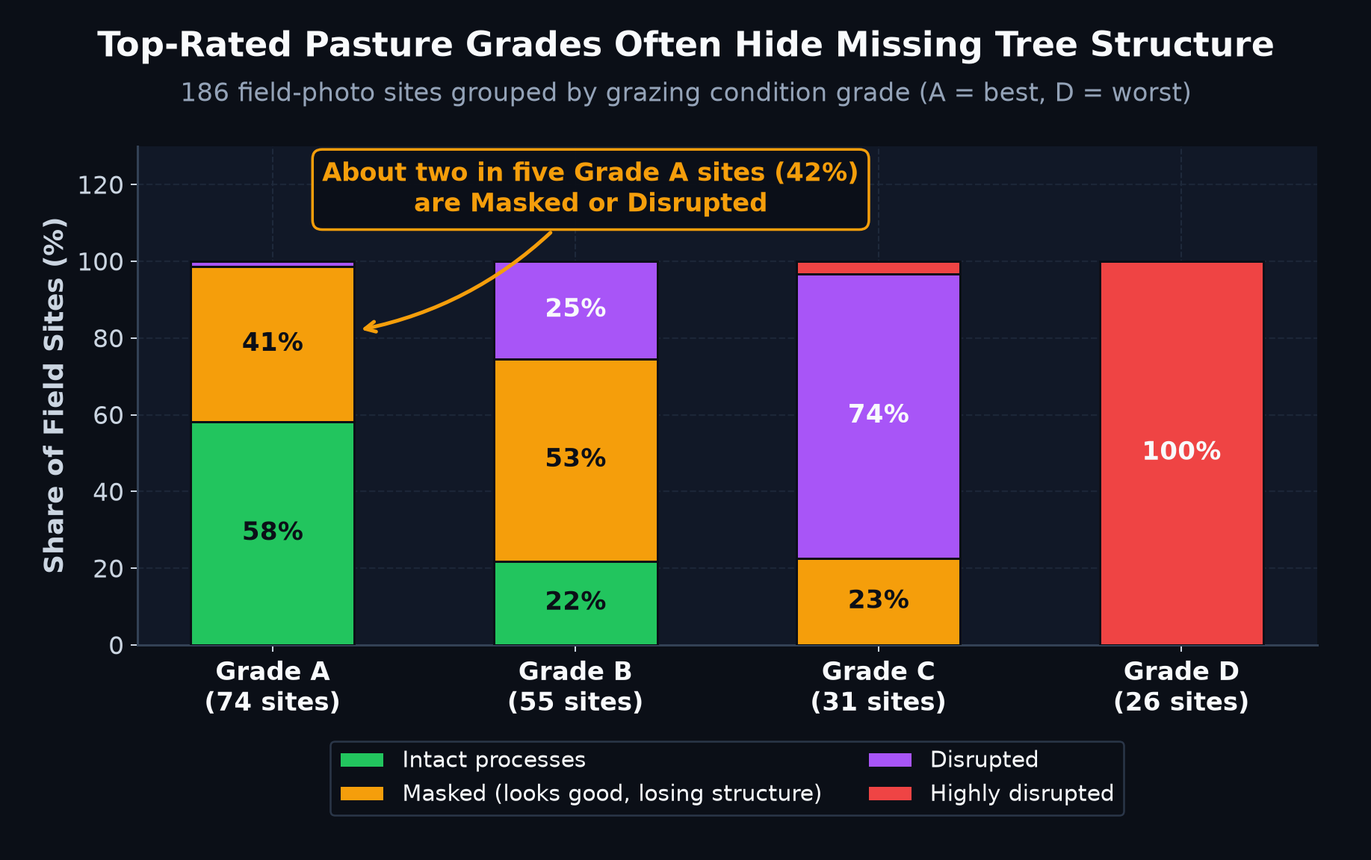
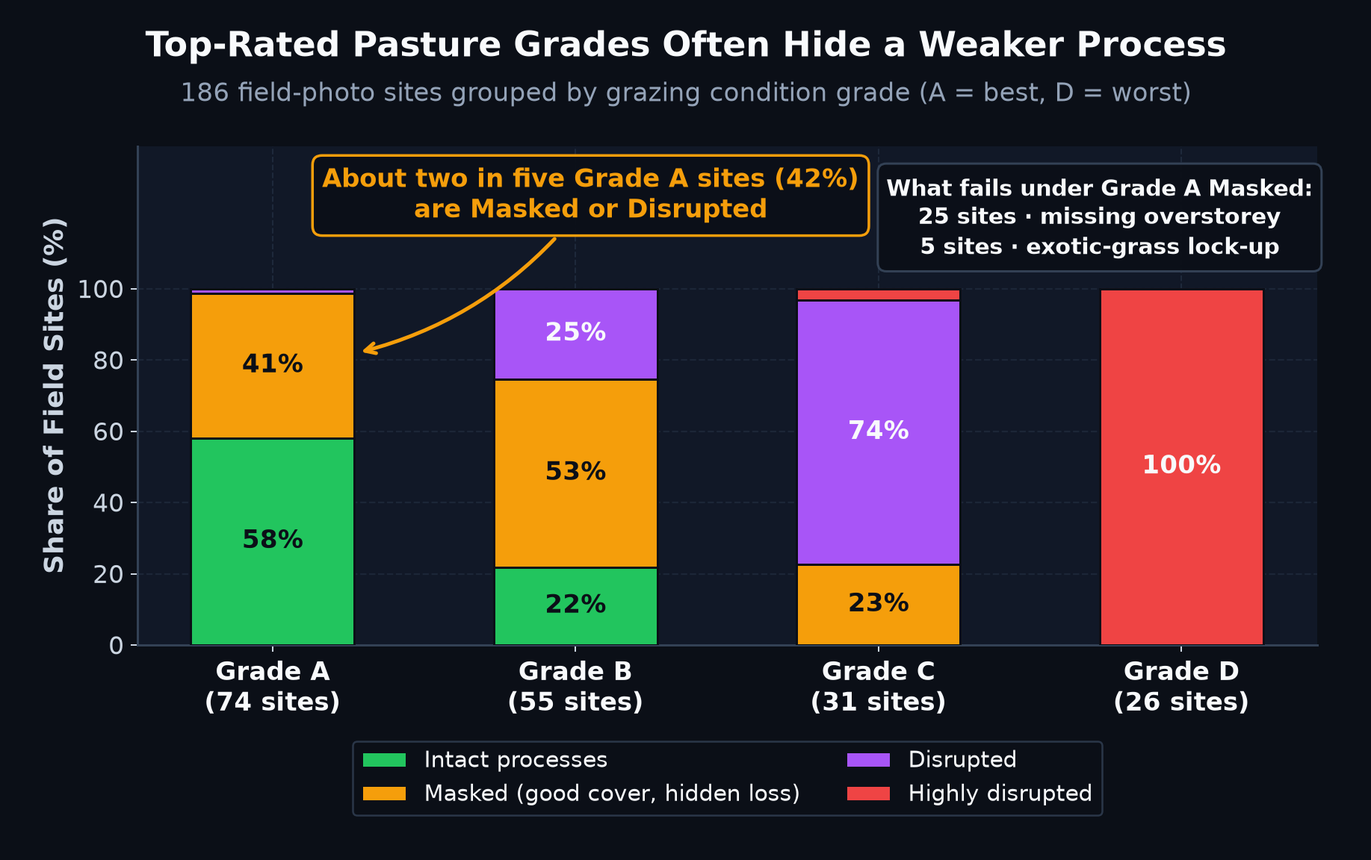
Broaden Masked regime beyond tree loss: Site 60 buffel example, reworded Slides 13/14/16 and close, chart split 25/5

diff --git a/index.html b/index.html
@@ -1690,7 +1690,7 @@
     </section>
     
 
-    <section class="slide layout-standard" data-index="15" data-id="13" data-section="main" data-act="Act 4 · Early research" data-time="16:45–18:10" data-title="The same ground through two views">
+    <section class="slide layout-standard" data-index="15" data-id="13" data-section="main" data-act="Act 4 · Early research" data-time="16:45–18:15" data-title="The same ground through two views">
       
         <header class="s-head">
           <div class="s-title-wrap">
@@ -1703,23 +1703,23 @@
       <div class="s-body">
         <div class="tab-bar" id="regime-tabs" role="tablist" aria-label="Landscape process regimes">
           <button class="tab-btn active" data-idx="0">1 · Intact processes</button>
-          <button class="tab-btn" data-idx="1">2 · Masked (looks good, losing structure)</button>
+          <button class="tab-btn" data-idx="1">2 · Masked (good cover, hidden loss)</button>
           <button class="tab-btn" data-idx="2">3 · Disrupted</button>
           <button class="tab-btn" data-idx="3">4 · Highly disrupted</button>
         </div>
         <div class="regime-stage" id="regime-stage"></div>
       </div>
       <div class="s-num">13</div>
-      <aside class="notes">When we run that two-step Gemini prompt across 186 field sites, four physical regimes emerge. Let me show two of them live. Regime 1, Intact processes: Site 185 near Weribone is grassy box woodland — tall trees and a full perennial grass layer — so canopies filter the rain while grass roots knit the soil, for a Process Stress of just 1.3 out of 10. [Press 2] Regime 2, Masked: Site 176 near Oberina and Site 61 look green and grassy, so checklists rate them well, yet the process view flags missing overstorey trees and baking air above the grass — Process Stress around 4. The other two tabs, Disrupted and Highly disrupted, show glazed clay pans shedding runoff and hard-set, crusting surfaces above 8 out of 10 — yet even there, fallen branches act as tiny soil-catching micro-sinks.</aside>
+      <aside class="notes">When we run that two-step Gemini prompt across 186 field sites, four physical regimes emerge. Let me show two of them live. Regime 1, Intact processes: Site 185 near Weribone is grassy box woodland — tall trees and a full perennial grass layer — so canopies filter the rain while grass roots knit the soil, for a Process Stress of just 1.3 out of 10. [Press 2] Regime 2, Masked: good ground cover earns both sites Grade A, yet something else is quietly failing. Site 176 near Oberina has lost its brigalow overstorey. Site 60 near Dirranbandi still has its trees, but unburnt buffel grass has locked up the ground layer — Process Stress around 3 to 4. The other two tabs, Disrupted and Highly disrupted, show glazed clay pans shedding runoff and hard-set, crusting surfaces above 8 out of 10 — yet even there, fallen branches act as tiny soil-catching micro-sinks.</aside>
     </section>
     
 
-    <section class="slide layout-standard" data-index="16" data-id="14" data-section="main" data-act="Act 4 · Early research" data-time="18:10–19:20" data-title="Some top-rated pasture is quietly losing its trees">
+    <section class="slide layout-standard" data-index="16" data-id="14" data-section="main" data-act="Act 4 · Early research" data-time="18:15–19:35" data-title="Some top-rated pasture is quietly losing a process">
       
         <header class="s-head">
           <div class="s-title-wrap">
             <div class="s-kicker">Early research · built on the condition model</div>
-            <h2 class="s-title">Some top-rated pasture is quietly losing its trees</h2>
+            <h2 class="s-title">Some top-rated pasture is quietly losing a process</h2>
             
           </div>
         </header>
@@ -1731,16 +1731,16 @@
             <div class="photo-cap"><strong>Site 176 · Oberina — thick grass, missing trees</strong><span>Rated <strong>Grade A</strong> pasture — yet the brigalow woodland now survives only as a wall of trees on the horizon.</span></div>
           </div>
           <div class="fig-box">
-            <img src="assets/chart_checklist_paradox.png" alt="Stacked bar chart of 186 field-photo sites showing about two in five Grade A pasture sites are Masked or Disrupted underneath" data-zoom="About two in five Grade A pasture sites hide missing tree structure">
+            <img src="assets/chart_checklist_paradox.png" alt="Stacked bar chart of 186 field-photo sites showing about two in five Grade A pasture sites are Masked or Disrupted underneath; of the Grade A Masked sites, 25 are missing overstorey and 5 have exotic-grass lock-up" data-zoom="About two in five Grade A pasture sites hide a weaker process underneath">
           </div>
         </div>
       </div>
       <div class="s-num">14</div>
-      <aside class="notes">Now put those four process regimes directly alongside standard grazing grades across all 186 field-photo sites, and a striking pattern jumps out. Look back at Site 176 near Oberina on the left. Thick grass covers the ground, so a pastoral checklist gives it top marks — Grade A. Yet look at the horizon: that wall of brigalow is what the whole paddock used to be. The trees that shelter the soil, cool the air, and anchor deep moisture are gone. Across the 186 sites on the right, about two in five Grade A pasture sites — forty-two percent — turn out to be Masked or Disrupted underneath. And it held up on the fifty sites we added in the latest run: eleven of the twenty-one new Grade A sites. That is the exact blind spot a process view begins to uncover.</aside>
+      <aside class="notes">Now put those four process regimes directly alongside standard grazing grades across all 186 field-photo sites, and a striking pattern jumps out. Look back at Site 176 near Oberina on the left. Thick grass covers the ground, so a pastoral checklist gives it top marks — Grade A. Yet look at the horizon: that wall of brigalow is what the whole paddock used to be. The trees that shelter the soil, cool the air, and anchor deep moisture are gone. Across the 186 sites on the right, about two in five Grade A pasture sites — forty-two percent — turn out to be Masked or Disrupted underneath. Most have lost their trees, like this one; about one in six still has them, with buffel locking up the ground layer. And it held up on the fifty sites we added in the latest run: eleven of the twenty-one new Grade A sites. That is the exact blind spot a process view begins to uncover.</aside>
     </section>
     
 
-    <section class="slide layout-standard" data-index="17" data-id="15" data-section="main" data-act="Act 4 · Early research" data-time="19:20–20:50" data-title="How we check the process view">
+    <section class="slide layout-standard" data-index="17" data-id="15" data-section="main" data-act="Act 4 · Early research" data-time="19:35–21:05" data-title="How we check the process view">
       
         <header class="s-head">
           <div class="s-title-wrap">
@@ -1769,7 +1769,7 @@
     </section>
     
 
-    <section class="slide layout-standard" data-index="18" data-id="16" data-section="main" data-act="Act 4 · Early research" data-time="20:50–21:55" data-title="Mapping Process Stress across 655,000 km²">
+    <section class="slide layout-standard" data-index="18" data-id="16" data-section="main" data-act="Act 4 · Early research" data-time="21:05–22:15" data-title="Mapping Process Stress across 655,000 km²">
       
         <header class="s-head">
           <div class="s-title-wrap">
@@ -1786,17 +1786,17 @@
           </div>
           <div class="strip-3">
             <div class="mini-card"><strong class="emerald">Just over half (54%) Intact</strong><span>Mostly far-west channel and dune country, woody ranges and intact mulga.</span></div>
-            <div class="mini-card"><strong class="amber">About a third (32%) Masked</strong><span>Cleared grazing country where good grass cover hides missing overstorey structure.</span></div>
+            <div class="mini-card"><strong class="amber">About a third (32%) Masked</strong><span>Good ground cover hiding a weaker process — mostly missing overstorey, also exotic-grass lock-up.</span></div>
             <div class="mini-card"><strong class="violet">One in seven (14%) Disrupted</strong><span>Priority zones for on-ground checking. Every pixel carries a calibrated 90% interval (±1.8).</span></div>
           </div>
         </div>
       </div>
       <div class="s-num">16</div>
-      <aside class="notes">When we project that early satellite probe across the roughly six hundred and fifty-five thousand square kilometre Mitchell corridor, a striking spatial pattern emerges. On the left is continuous Process Stress, with our 186 field-photo sites as white dots; on the right, the dominant landscape regime. Just over half maps as Intact processes, in the far-west channel country, the woody ranges and intact mulga. About a third maps as Masked — open grazing country where good ground cover hides simplified tree structure. And about one in seven flags as Disrupted or Highly disrupted. Every pixel now carries a calibrated ninety-percent uncertainty band, and that matters: between model versions the Intact share moved by more than ten points. Treat this as an early research map: it tells field teams where to drive next, not a finished regulatory scorecard.</aside>
+      <aside class="notes">When we project that early satellite probe across the roughly six hundred and fifty-five thousand square kilometre Mitchell corridor, a striking spatial pattern emerges. On the left is continuous Process Stress, with our 186 field-photo sites as white dots; on the right, the dominant landscape regime. Just over half maps as Intact processes, in the far-west channel country, the woody ranges and intact mulga. About a third maps as Masked — good ground cover hiding a weaker process, mostly missing overstorey trees, in places exotic grass locking up the ground layer. And about one in seven flags as Disrupted or Highly disrupted. Every pixel now carries a calibrated ninety-percent uncertainty band, and that matters: between model versions the Intact share moved by more than ten points. Treat this as an early research map: it tells field teams where to drive next, not a finished regulatory scorecard.</aside>
     </section>
     
 
-    <section class="slide layout-standard" data-index="19" data-id="17" data-section="main" data-act="Close" data-time="21:55–23:15" data-title="From static ledgers to living processes — what this unlocks">
+    <section class="slide layout-standard" data-index="19" data-id="17" data-section="main" data-act="Close" data-time="22:15–23:35" data-title="From static ledgers to living processes — what this unlocks">
       
         <header class="s-head">
           <div class="s-title-wrap">
@@ -1838,7 +1838,7 @@
               <span class="tk-tag">Google Hypothesis Generation · Process View</span>
             </div>
             <h3>AI-assisted ideation &amp; living processes</h3>
-            <p>Shaped with <strong>Google Hypothesis Generation</strong> (1,985 papers), the verb-based process view finds <strong>about two in five</strong> of Grade A pastures hiding missing tree structure.</p>
+            <p>Shaped with <strong>Google Hypothesis Generation</strong> (1,985 papers), the verb-based process view finds <strong>about two in five</strong> of Grade A pastures hiding a weaker process underneath.</p>
           </div>
         </div>
         <div class="collab-band">
@@ -1867,7 +1867,7 @@
         </div>
       </div>
       <div class="s-num">17</div>
-      <aside class="notes">I will leave this up for questions. Four quick take-homes. First, AlphaEarth&#x27;s global embeddings let a small team train one compact multi-task model that maps 1.2 billion pixels of Australia in about forty minutes, nearly halving tree-cover error — and the same pattern travels anywhere in APAC. Second, grounded Gemini VLMs turn field photos into auditable scientific data, landing within one class of field ecologists ninety-eight percent of the time once calibrated. Third, domain discipline — separating ecology from pasture and scoring the optimiser fairly — is what makes continental AI trustworthy. Fourth, an early process view, shaped with Google Hypothesis Generation, shows about two in five top-rated pastures quietly losing structure. Next, savanna field surveys across Northern Australia will test both models out of domain. None of this would have been practical without Google Antigravity for our agentic engineering and Google Colab for the GPU compute. Thank you — the slides and code are at the link on screen, and I would love your questions.</aside>
+      <aside class="notes">I will leave this up for questions. Four quick take-homes. First, AlphaEarth&#x27;s global embeddings let a small team train one compact multi-task model that maps 1.2 billion pixels of Australia in about forty minutes, nearly halving tree-cover error — and the same pattern travels anywhere in APAC. Second, grounded Gemini VLMs turn field photos into auditable scientific data, landing within one class of field ecologists ninety-eight percent of the time once calibrated. Third, domain discipline — separating ecology from pasture and scoring the optimiser fairly — is what makes continental AI trustworthy. Fourth, an early process view, shaped with Google Hypothesis Generation, shows about two in five top-rated pastures quietly losing a key process underneath. Next, savanna field surveys across Northern Australia will test both models out of domain. None of this would have been practical without Google Antigravity for our agentic engineering and Google Colab for the GPU compute. Thank you — the slides and code are at the link on screen, and I would love your questions.</aside>
     </section>
     
 
@@ -2614,7 +2614,7 @@
       ]
     },
     {
-      name: 'Masked (looks good, losing structure)',
+      name: 'Masked (good cover, hidden loss)',
       color: 'amber',
       toneHex: '#F59E0B',
       pair: [
@@ -2630,15 +2630,15 @@
           losing: ['tree removal', 'baking', 'crusting']
         },
         {
-          id: 'Site 61 · Mulga & Box Slope',
-          sub: 'Open red-earth grazing paddock',
-          photo: 'assets/site_61.jpg',
-          stress: '4.0 / 10',
-          badge: 'Masked · Surface vs structure',
-          checklist: 'Solid ground cover and grazing score; simplified woody canopy',
-          process: 'Thick pasture slows runoff on the ground while tree cover stays sparse — showing why surface and tree structure must be separated.',
-          holding: ['root-knitting', 'percolating', 'cradling'],
-          losing: ['hard-setting (seams)', 'wind-winnowing', 'crusting']
+          id: 'Site 60 · Dirranbandi',
+          sub: 'Woodland with a buffel grass understorey',
+          photo: 'assets/site_60.jpg',
+          stress: '3.2 / 10',
+          badge: 'Masked · Grade A pasture',
+          checklist: 'Top pasture grade (Grade A); tree canopy intact; native plant mix scores 95% from above',
+          process: 'Trees still shade and cool the ground, but an unburnt buffel mat hogs the shallow rain and piles dry fuel against the trunks, leaving native grasses no room to renew.',
+          holding: ['arch-shading', 'canopy-filtering', 'root-knitting'],
+          losing: ['smothering', 'fuel build-up', 'crusting']
         }
       ]
     },

diff --git a/speaker_notes.md b/speaker_notes.md
@@ -4,7 +4,7 @@
 **Event:** GDG AI for Science Asia-Pacific DevFest, Sydney · 25 min + 5 min Q&A  
 **Shortcuts in Deck:** `←`/`→` navigate · `S` speaker notes · `R` Reader Mode · `G` slide grid · `A` Appendix · `1–4` regimes on Slide 13
 
-**Total script length:** 2,754 words (Main Talk) + 920 words (Appendix) = **3,674 words total**.
+**Total script length:** 2,801 words (Main Talk) + 920 words (Appendix) = **3,721 words total**.
 
 **Rehearsal checkpoints** (paced at ~128 wpm + slide changes; slower for the Acknowledgement):
 
@@ -14,8 +14,8 @@
 | Act 1 · The problem | 5:00 |
 | Act 2 · The condition model | 8:30 |
 | Act 3 · Three lessons & results | 14:25 |
-| Act 4 · Early research | 21:55 |
-| Close | 23:15 |
+| Act 4 · Early research | 22:15 |
+| Close | 23:35 |
 
 ---
 
@@ -97,29 +97,29 @@ Now I want to pivot — and be upfront that this final part of the talk is early
 Before building the verb-based experiment, we stress-tested that hunch with Google Hypothesis Generation. It read nearly two thousand arXiv and bioRxiv papers and compared ten candidate research designs against our criteria. It flagged two failure modes and one design principle. First, kinetic conflation: if you only ban nouns, a VLM scores gullying and scouring as healthy simply because they are active — so we split verbs into Holding versus Losing. Second, stripping landscape nouns can break arid-zone intuition, so every reading is anchored in local physical and climate context. And the design principle: keep rich verb prompting offline on field photos, then probe our shared AlphaEarth satellite trunk rather than guessing beneath tree canopies.
 
 ### 13 · The same ground through two views  
-*Act 4 · Early research · 16:45–18:10 · ~139 words*
+*Act 4 · Early research · 16:45–18:15 · ~152 words*
 
-When we run that two-step Gemini prompt across 186 field sites, four physical regimes emerge. Let me show two of them live. Regime 1, Intact processes: Site 185 near Weribone is grassy box woodland — tall trees and a full perennial grass layer — so canopies filter the rain while grass roots knit the soil, for a Process Stress of just 1.3 out of 10. [Press 2] Regime 2, Masked: Site 176 near Oberina and Site 61 look green and grassy, so checklists rate them well, yet the process view flags missing overstorey trees and baking air above the grass — Process Stress around 4. The other two tabs, Disrupted and Highly disrupted, show glazed clay pans shedding runoff and hard-set, crusting surfaces above 8 out of 10 — yet even there, fallen branches act as tiny soil-catching micro-sinks.
+When we run that two-step Gemini prompt across 186 field sites, four physical regimes emerge. Let me show two of them live. Regime 1, Intact processes: Site 185 near Weribone is grassy box woodland — tall trees and a full perennial grass layer — so canopies filter the rain while grass roots knit the soil, for a Process Stress of just 1.3 out of 10. [Press 2] Regime 2, Masked: good ground cover earns both sites Grade A, yet something else is quietly failing. Site 176 near Oberina has lost its brigalow overstorey. Site 60 near Dirranbandi still has its trees, but unburnt buffel grass has locked up the ground layer — Process Stress around 3 to 4. The other two tabs, Disrupted and Highly disrupted, show glazed clay pans shedding runoff and hard-set, crusting surfaces above 8 out of 10 — yet even there, fallen branches act as tiny soil-catching micro-sinks.
 
-### 14 · Some top-rated pasture is quietly losing its trees  
-*Act 4 · Early research · 18:10–19:20 · ~141 words*
+### 14 · Some top-rated pasture is quietly losing a process  
+*Act 4 · Early research · 18:15–19:35 · ~163 words*
 
-Now put those four process regimes directly alongside standard grazing grades across all 186 field-photo sites, and a striking pattern jumps out. Look back at Site 176 near Oberina on the left. Thick grass covers the ground, so a pastoral checklist gives it top marks — Grade A. Yet look at the horizon: that wall of brigalow is what the whole paddock used to be. The trees that shelter the soil, cool the air, and anchor deep moisture are gone. Across the 186 sites on the right, about two in five Grade A pasture sites — forty-two percent — turn out to be Masked or Disrupted underneath. And it held up on the fifty sites we added in the latest run: eleven of the twenty-one new Grade A sites. That is the exact blind spot a process view begins to uncover.
+Now put those four process regimes directly alongside standard grazing grades across all 186 field-photo sites, and a striking pattern jumps out. Look back at Site 176 near Oberina on the left. Thick grass covers the ground, so a pastoral checklist gives it top marks — Grade A. Yet look at the horizon: that wall of brigalow is what the whole paddock used to be. The trees that shelter the soil, cool the air, and anchor deep moisture are gone. Across the 186 sites on the right, about two in five Grade A pasture sites — forty-two percent — turn out to be Masked or Disrupted underneath. Most have lost their trees, like this one; about one in six still has them, with buffel locking up the ground layer. And it held up on the fifty sites we added in the latest run: eleven of the twenty-one new Grade A sites. That is the exact blind spot a process view begins to uncover.
 
 ### 15 · How we check the process view  
-*Act 4 · Early research · 19:20–20:50 · ~181 words*
+*Act 4 · Early research · 19:35–21:05 · ~181 words*
 
 Can satellites actually see this, and how honest is the check? We trained a lightweight probe on the shared internal features of the same condition model — deliberately withholding the six condition maps so it could not take shortcuts — to predict the photo-based Process Stress at 186 sites. Tested on nine held-out regions, agreement is moderate: a concordance of about 0.5 — 0.49 raw, 0.53 after a simple spread calibration — and an AUC of 0.67 to 0.75 for flagging Masked and Highly disrupted sites, where 0.5 is chance. It is strong on the eastern escarpment and close to zero in the far-west Channel Country — remember the Windorah dune? When the far west is held out, the probe reads it as stressed. One honest ML footnote: on our original 136 sites the new backbone alone did no better — the gain came from fifty more field sites. On the right, every reading is anchored to four physical planes — soil, surface water, tree canopy and fire — with guardrails that stop the model inventing cultural, ceremonial or ownership claims.
 
 ### 16 · Mapping Process Stress across 655,000 km²  
-*Act 4 · Early research · 20:50–21:55 · ~137 words*
+*Act 4 · Early research · 21:05–22:15 · ~146 words*
 
-When we project that early satellite probe across the roughly six hundred and fifty-five thousand square kilometre Mitchell corridor, a striking spatial pattern emerges. On the left is continuous Process Stress, with our 186 field-photo sites as white dots; on the right, the dominant landscape regime. Just over half maps as Intact processes, in the far-west channel country, the woody ranges and intact mulga. About a third maps as Masked — open grazing country where good ground cover hides simplified tree structure. And about one in seven flags as Disrupted or Highly disrupted. Every pixel now carries a calibrated ninety-percent uncertainty band, and that matters: between model versions the Intact share moved by more than ten points. Treat this as an early research map: it tells field teams where to drive next, not a finished regulatory scorecard.
+When we project that early satellite probe across the roughly six hundred and fifty-five thousand square kilometre Mitchell corridor, a striking spatial pattern emerges. On the left is continuous Process Stress, with our 186 field-photo sites as white dots; on the right, the dominant landscape regime. Just over half maps as Intact processes, in the far-west channel country, the woody ranges and intact mulga. About a third maps as Masked — good ground cover hiding a weaker process, mostly missing overstorey trees, in places exotic grass locking up the ground layer. And about one in seven flags as Disrupted or Highly disrupted. Every pixel now carries a calibrated ninety-percent uncertainty band, and that matters: between model versions the Intact share moved by more than ten points. Treat this as an early research map: it tells field teams where to drive next, not a finished regulatory scorecard.
 
 ### 17 · From static ledgers to living processes — what this unlocks  
-*Close · 21:55–23:15 · ~166 words*
+*Close · 22:15–23:35 · ~169 words*
 
-I will leave this up for questions. Four quick take-homes. First, AlphaEarth's global embeddings let a small team train one compact multi-task model that maps 1.2 billion pixels of Australia in about forty minutes, nearly halving tree-cover error — and the same pattern travels anywhere in APAC. Second, grounded Gemini VLMs turn field photos into auditable scientific data, landing within one class of field ecologists ninety-eight percent of the time once calibrated. Third, domain discipline — separating ecology from pasture and scoring the optimiser fairly — is what makes continental AI trustworthy. Fourth, an early process view, shaped with Google Hypothesis Generation, shows about two in five top-rated pastures quietly losing structure. Next, savanna field surveys across Northern Australia will test both models out of domain. None of this would have been practical without Google Antigravity for our agentic engineering and Google Colab for the GPU compute. Thank you — the slides and code are at the link on screen, and I would love your questions.
+I will leave this up for questions. Four quick take-homes. First, AlphaEarth's global embeddings let a small team train one compact multi-task model that maps 1.2 billion pixels of Australia in about forty minutes, nearly halving tree-cover error — and the same pattern travels anywhere in APAC. Second, grounded Gemini VLMs turn field photos into auditable scientific data, landing within one class of field ecologists ninety-eight percent of the time once calibrated. Third, domain discipline — separating ecology from pasture and scoring the optimiser fairly — is what makes continental AI trustworthy. Fourth, an early process view, shaped with Google Hypothesis Generation, shows about two in five top-rated pastures quietly losing a key process underneath. Next, savanna field surveys across Northern Australia will test both models out of domain. None of this would have been practical without Google Antigravity for our agentic engineering and Google Colab for the GPU compute. Thank you — the slides and code are at the link on screen, and I would love your questions.
 
 ## Technical Appendix (Q&A Backup)
 

diff --git a/README.md b/README.md
@@ -41,7 +41,7 @@
   4. Joint multi-task training nearly halves tree-cover error (`−44%` across `~3,600` survey lines) and cuts false native-vegetation alarms on cleared land from `76% → 9%`.
 - **Act 4 · Early Research: The Process View (`11–16`):**
   - Slide 11 frames nouns vs. verbs (positioning statement first) and states the hunch; Slide 12 stress-tests it with **Google Hypothesis Generation** (`labs.google.com/science/hypothesis-generation/`), which synthesised `1,985` sources across `10` candidate designs to catch *kinetic conflation* (leading to **Holding** vs. **Losing** verbs) and *geographic mismatch* before building the verb-based experiment.
-  - Applied via a two-step verb-centred Gemini VLM prompt across `186` field-photo sites — finding that about two in five (`42%`) Grade A pastures mask missing overstorey structure (replicated on the 50 newest sites). A satellite-trunk probe predicts these readings with moderate skill across 9 held-out regions (CCC ≈ 0.5, AUC 0.67–0.75) and maps the ~655,000 km² Mitchell corridor with a calibrated 90% uncertainty band per pixel.
+  - Applied via a two-step verb-centred Gemini VLM prompt across `186` field-photo sites — finding that about two in five (`42%`) Grade A pastures hide a weaker process underneath — mostly missing overstorey, sometimes exotic-grass lock-up (replicated on the 50 newest sites). A satellite-trunk probe predicts these readings with moderate skill across 9 held-out regions (CCC ≈ 0.5, AUC 0.67–0.75) and maps the ~655,000 km² Mitchell corridor with a calibrated 90% uncertainty band per pixel.
 - **Close (`17`):** Takeaways, links to slides and code, and acknowledgement of the end-to-end Google AI for Science stack (**Google Hypothesis Generation**, **Gemini VLMs**, **AlphaEarth Foundations**, **Google Antigravity**, and **Google Colab**).
 
 ### Technical Appendix (`A1–A13` Backup)
@@ -57,7 +57,7 @@ Only the minimal files required for the deck to render and run offline are track
 .
 ├── index.html          # Standalone 33-slide HTML5 presentation (Intro + 17 Main + A1–A13 Appendix)
 ├── speaker_notes.md    # Complete presenter script with slide timings & rehearsal checkpoints
-├── assets/             # 41 charts, maps, SVG diagrams, field photos, word clouds & drive clip
+├── assets/             # 42 charts, maps, SVG diagrams, field photos, word clouds & drive clip
 ├── .gitignore          # Excludes local reference/ materials from version control
 └── README.md           # This guide
 ```
